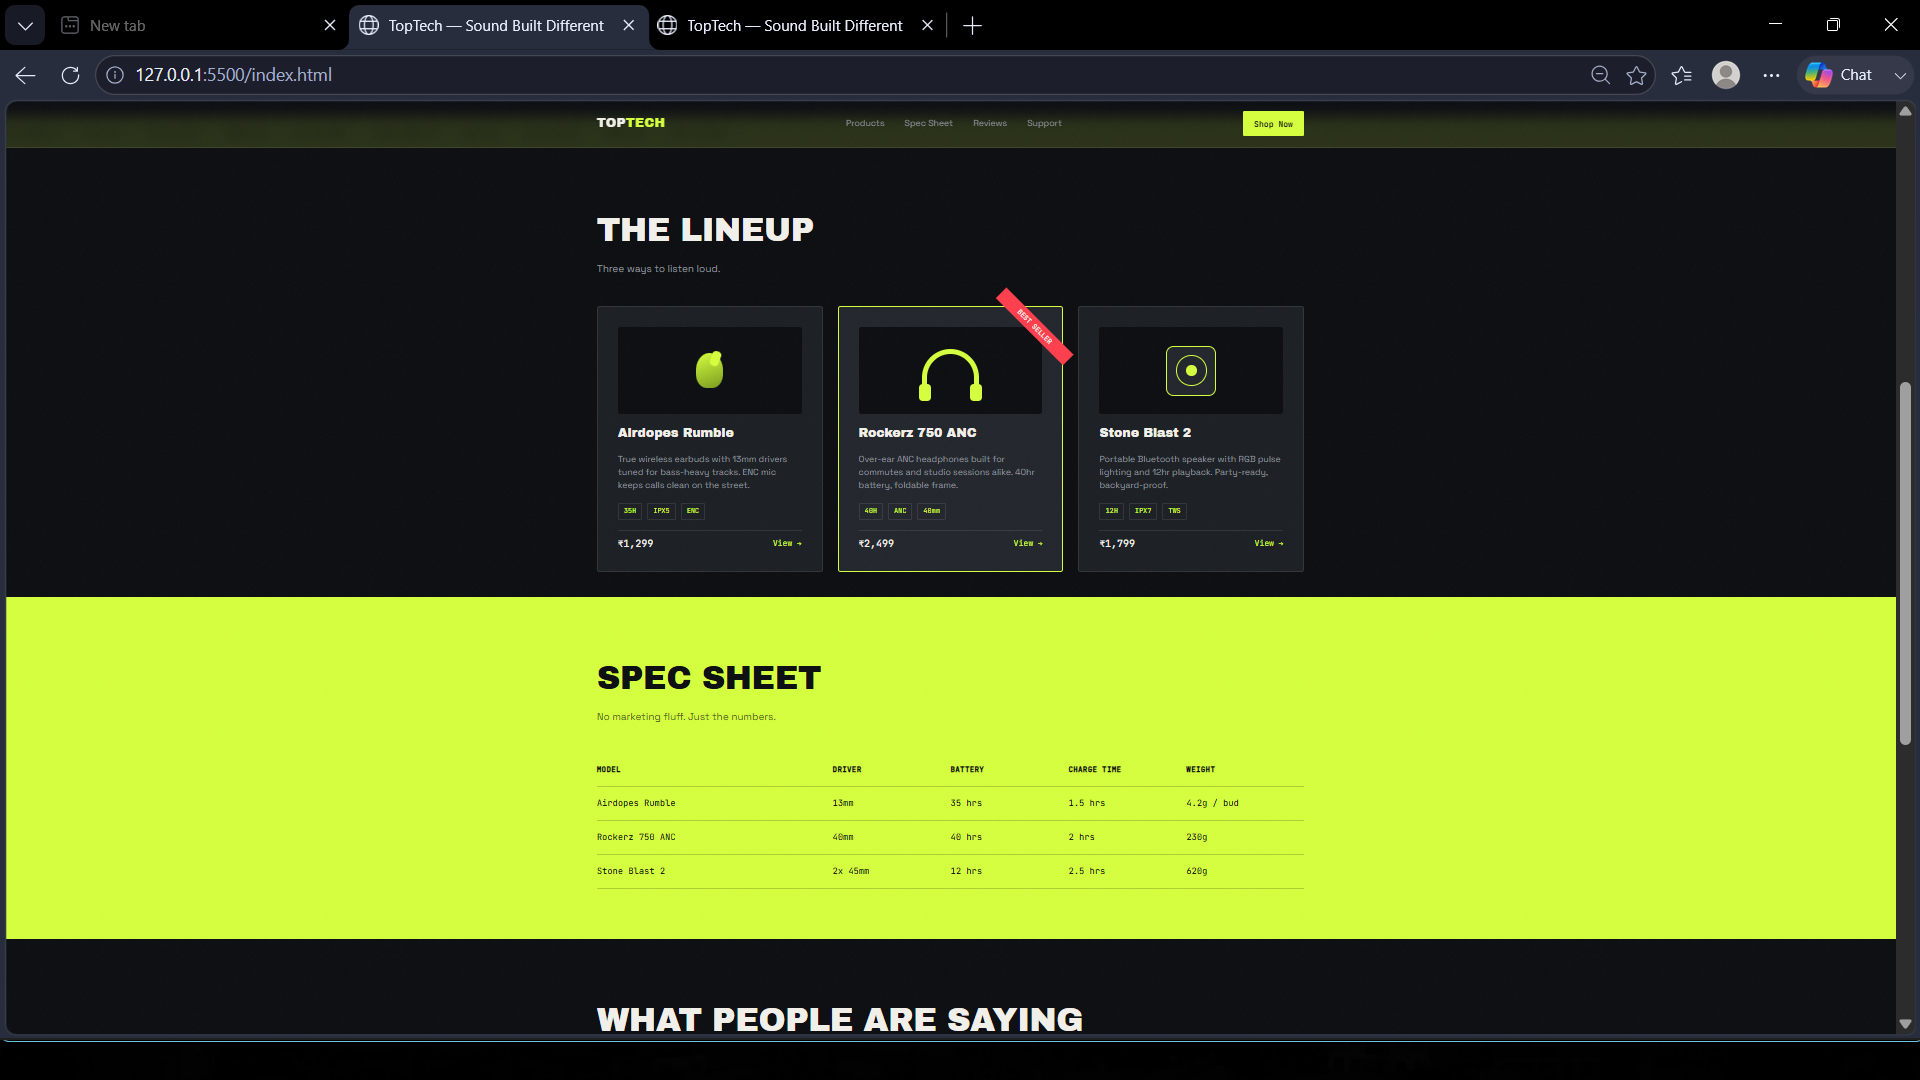
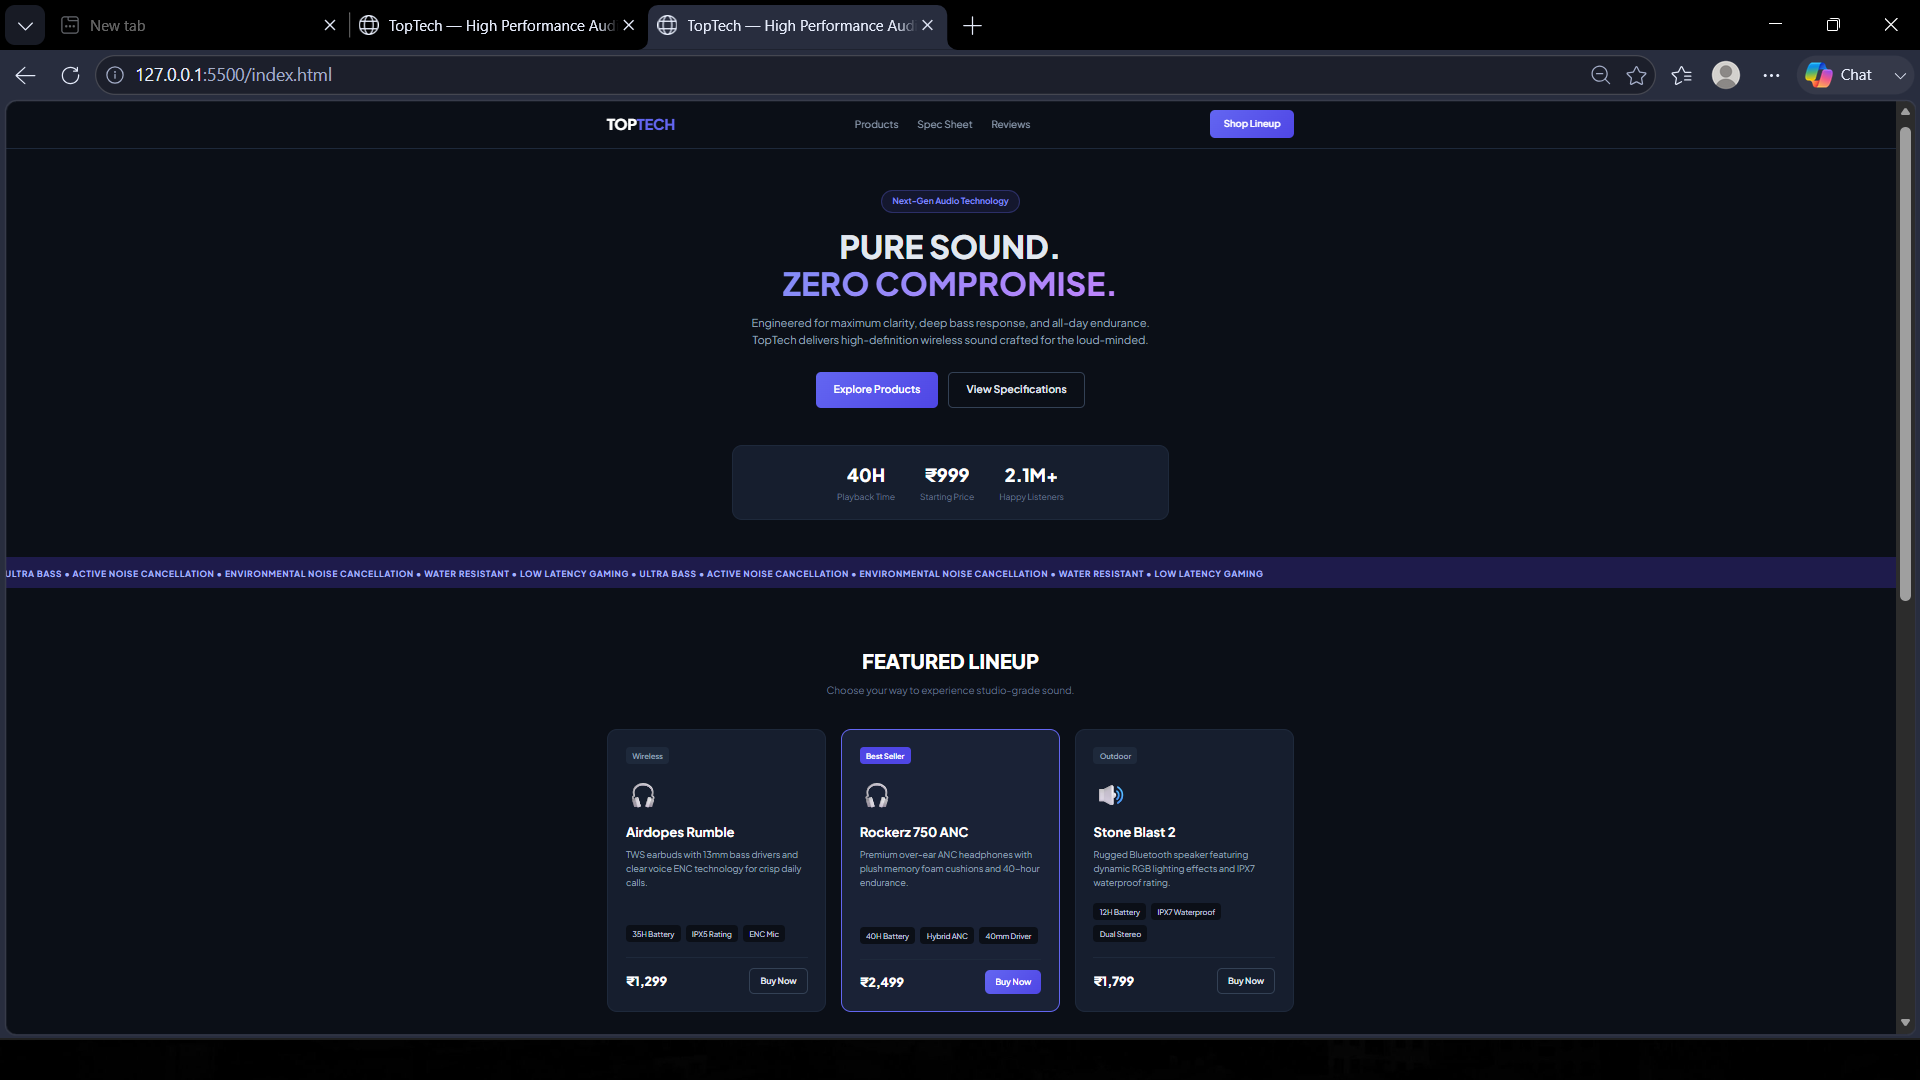
Add code, output screenshot, and README

diff --git a/README.md b/README.md
@@ -51,6 +51,7 @@ Deploy the website.
 Upload to GitHub Pages for free hosting.
 
 ## PROGRAM
+```
 <!DOCTYPE html>
 <html lang="en">
 <head>
@@ -268,8 +269,11 @@ Upload to GitHub Pages for free hosting.
 
 </body>
 </html>
+```
+## OUTPUT
 ## OUTPUT
 
+![Website Output Screenshot](image.png)
 
 ## RESULT
 The program for creating commercial website using CSS Flexbox is executed successfully.
